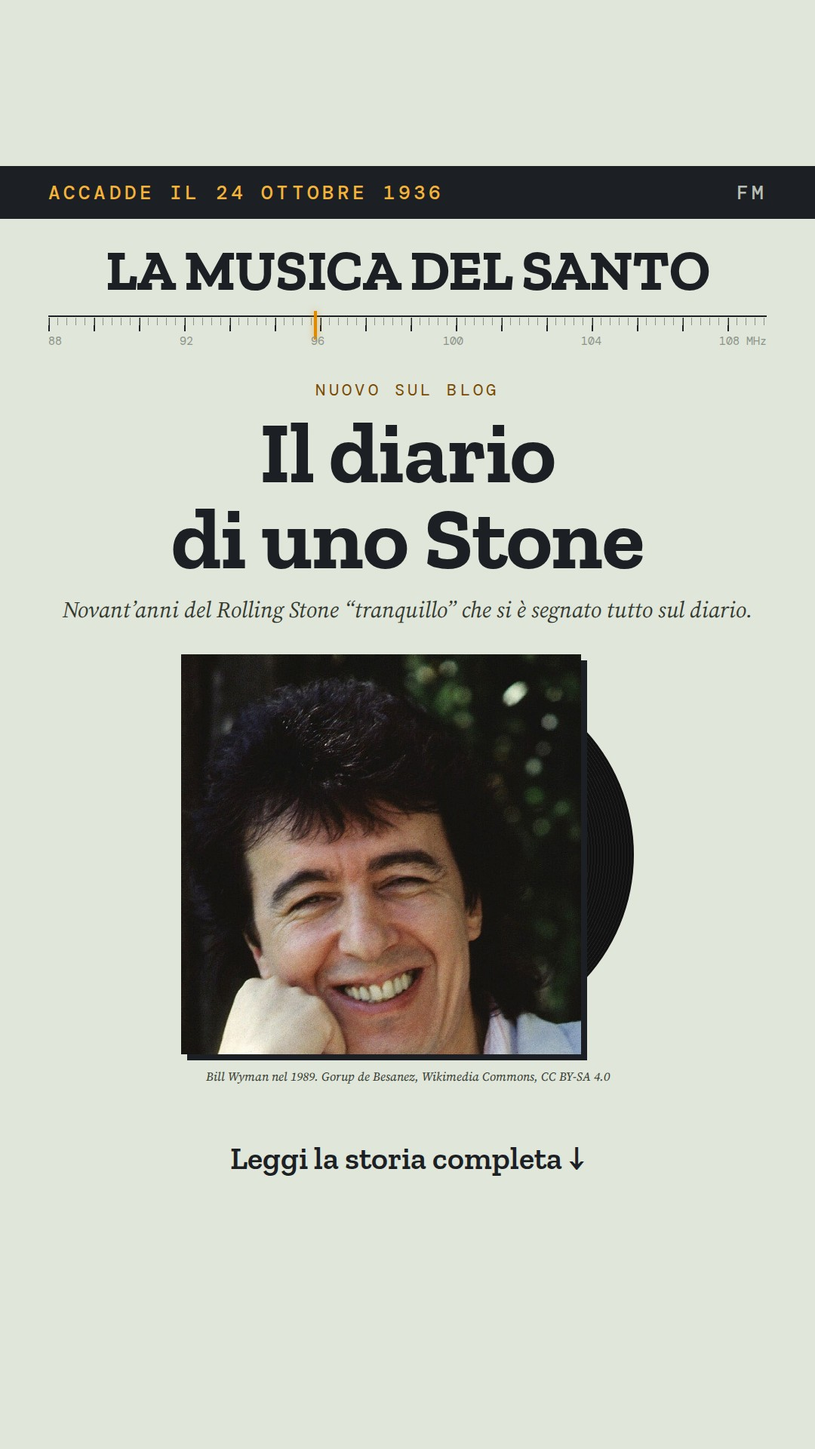
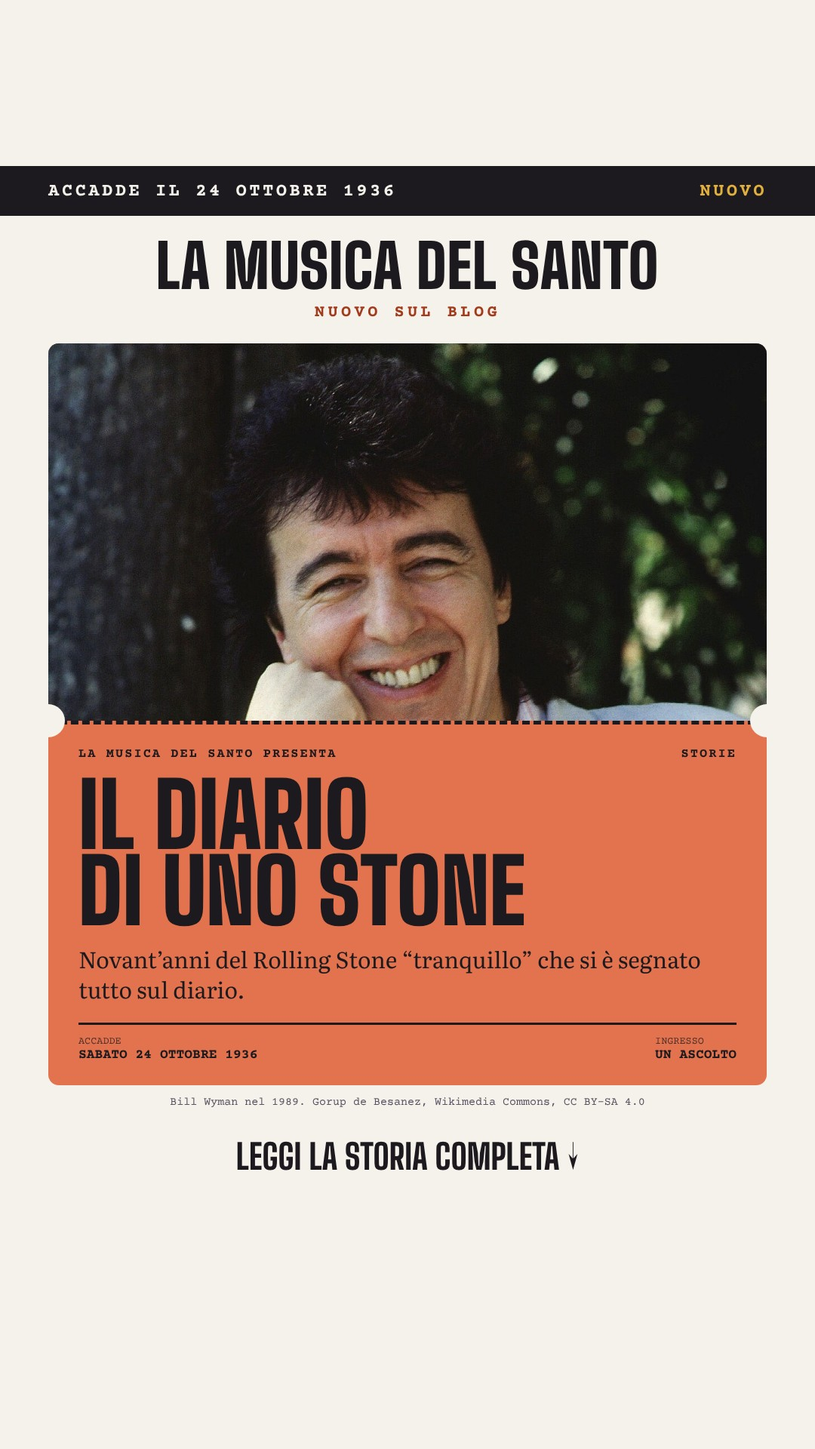
Colori più asciutti e grafiche social nello stile «Biglietti»
- I quattro pastelli diventano colori da carta stampata d'epoca:
  terracotta, salvia, carta da zucchero, senape (tutti oltre 5:1 con
  l'inchiostro); link e hover in rosso mattone al posto del viola
- Grafiche social (Instagram, Facebook, storia) rifatte come biglietto:
  Big Shoulders Display, Literata e Courier Prime, stessi colori del sito;
  nuovo campo facoltativo «sezione» stampato sul biglietto
- Rigenerate le grafiche di Bill Wyman e Back to Black

Claude-Session: https://claude.ai/code/session_01GmcXVyhV4RRvG2N8ARYUjh

diff --git a/src/styles/global.css b/src/styles/global.css
@@ -6,11 +6,12 @@
   --bianco: #FFFFFF;
   --grigio-testo: #5A5463;         /* testo secondario: contrasto 6.9 su carta */
   --tratteggio: #9A93A3;           /* linee tratteggiate e filetti leggeri */
-  --viola: #5B2A86;                /* link e hover */
-  --rosa: #F4B6C2;                 /* i quattro colori dei biglietti */
-  --menta: #A9DDC9;
-  --lilla: #C8B9F2;
-  --giallo: #F3DC8A;
+  --mattone: #A33A1C;              /* link e hover: contrasto 5.9 su carta */
+  /* i quattro colori dei biglietti, da carta stampata d'epoca: tutti oltre 5:1 con l'inchiostro */
+  --terracotta: #E2734E;
+  --salvia: #7FA996;
+  --zucchero: #7F9CC9;
+  --senape: #E0AF3E;
   --max: 1200px;
   --testo: 720px;
   --gutter: clamp(16px, 4vw, 56px);
@@ -26,8 +27,8 @@ html { -webkit-text-size-adjust: 100%; }
 body { margin: 0; background: var(--carta); color: var(--nero); font-family: var(--f-testo); font-size: 18px; line-height: 1.6; text-rendering: optimizeLegibility; }
 img { max-width: 100%; height: auto; display: block; }
 a { color: inherit; text-decoration-thickness: 1px; text-underline-offset: 3px; }
-a:hover { color: var(--viola); }
-:focus-visible { outline: 3px solid var(--viola); outline-offset: 2px; }
+a:hover { color: var(--mattone); }
+:focus-visible { outline: 3px solid var(--mattone); outline-offset: 2px; }
 .wrap { max-width: var(--max); margin: 0 auto; padding: 0 var(--gutter); }
 .salta { position: absolute; left: -9999px; }
 .salta:focus { left: 12px; top: 12px; background: var(--carta); padding: 8px 12px; z-index: 20; }
@@ -43,9 +44,9 @@ a:hover { color: var(--viola); }
 .menu ul { display: flex; flex-wrap: nowrap; justify-content: flex-end; gap: 8px; list-style: none; margin: 0; padding: 0; }
 .menu a { display: inline-flex; align-items: center; min-height: 40px; padding: 8px 11px; border: 1.5px solid var(--nero); font-size: 14px; font-weight: 700; text-transform: uppercase; text-decoration: none; white-space: nowrap; }
 .menu a:hover { background: var(--nero); color: var(--carta); }
-.menu a[aria-current] { background: var(--giallo); border-color: var(--giallo); color: var(--nero); }
+.menu a[aria-current] { background: var(--senape); border-color: var(--senape); color: var(--nero); }
 .menu .cerca-icona { border-color: transparent; padding: 8px; }
-.menu .cerca-icona:hover, .menu .cerca-icona[aria-current] { background: transparent; border-color: transparent; color: var(--viola); }
+.menu .cerca-icona:hover, .menu .cerca-icona[aria-current] { background: transparent; border-color: transparent; color: var(--mattone); }
 
 @media (max-width: 1100px) {
   .testa .wrap { flex-direction: column; align-items: stretch; gap: 14px; padding-top: 16px; padding-bottom: 12px; }
@@ -61,10 +62,10 @@ a:hover { color: var(--viola); }
 
 /* ---------- Elementi comuni ---------- */
 .etichetta { display: inline-block; background: var(--nero); color: var(--carta); font-weight: 700; font-size: 12px; letter-spacing: .12em; text-transform: uppercase; padding: 4px 9px; text-decoration: none; }
-a.etichetta:hover { background: var(--viola); color: var(--bianco); }
+a.etichetta:hover { background: var(--mattone); color: var(--bianco); }
 .rubrica { font-weight: 700; font-size: 12px; letter-spacing: .1em; text-transform: uppercase; text-decoration: none; }
 .titolo { font-family: var(--f-titolo); font-weight: 900; line-height: .9; text-transform: uppercase; margin: 0; text-wrap: balance; }
-.leggi { font-weight: 700; font-size: 15px; color: var(--viola); }
+.leggi { font-weight: 700; font-size: 15px; color: var(--mattone); }
 .meta { font-size: 14px; color: var(--grigio-testo); }
 .retino { position: relative; overflow: hidden; background: var(--tratteggio); }
 .retino img { width: 100%; height: 100%; object-fit: cover; display: block; transition: transform .5s ease; }
@@ -72,7 +73,7 @@ a:hover .retino img { transform: scale(1.03); }
 @media (prefers-reduced-motion: reduce) { .retino img { transition: none; } a:hover .retino img { transform: none; } }
 .didascalia { font-size: 13px; color: var(--grigio-testo); margin-top: 8px; }
 .sezione-titolo { display: flex; align-items: baseline; justify-content: space-between; gap: 16px; margin: 52px 0 20px; font-family: var(--f-titolo); font-weight: 800; font-size: clamp(30px, 3.4vw, 40px); line-height: 1; text-transform: uppercase; }
-.sezione-titolo a { flex: 0 0 auto; font-family: var(--f-testo); font-size: 15px; font-weight: 700; text-transform: none; color: var(--viola); }
+.sezione-titolo a { flex: 0 0 auto; font-family: var(--f-testo); font-size: 15px; font-weight: 700; text-transform: none; color: var(--mattone); }
 .occhiello { margin: 0 0 14px; font-size: 13px; letter-spacing: .16em; text-transform: uppercase; color: var(--grigio-testo); }
 .occhiello a { color: inherit; }
 
@@ -80,7 +81,7 @@ a:hover .retino img { transform: scale(1.03); }
 .barre { display: block; width: 180px; height: 44px; background: repeating-linear-gradient(90deg, var(--nero) 0 3px, transparent 3px 6px, var(--nero) 6px 7px, transparent 7px 11px); }
 
 /* ---------- Il biglietto (primo piano e intestazione articolo) ---------- */
-.biglietto { position: relative; display: grid; background: var(--rosa); color: var(--nero); border-radius: 10px; overflow: hidden; text-decoration: none; }
+.biglietto { position: relative; display: grid; background: var(--terracotta); color: var(--nero); border-radius: 10px; overflow: hidden; text-decoration: none; }
 .biglietto:hover { color: var(--nero); }
 /* mezzelune della perforazione, del colore del fondo */
 .biglietto .buco { position: absolute; width: 36px; height: 36px; border-radius: 50%; background: var(--carta); }
@@ -119,10 +120,10 @@ a:hover .retino img { transform: scale(1.03); }
 
 /* ---------- Schede-biglietto (griglia a tre) ---------- */
 .pezzi { display: grid; grid-template-columns: repeat(3, minmax(0, 1fr)); gap: 28px; }
-.pezzo { display: flex; flex-direction: column; background: var(--menta); border-radius: 8px; overflow: hidden; }
-.pezzi > .pezzo:nth-child(4n+2) { background: var(--lilla); }
-.pezzi > .pezzo:nth-child(4n+3) { background: var(--giallo); }
-.pezzi > .pezzo:nth-child(4n+4) { background: var(--rosa); }
+.pezzo { display: flex; flex-direction: column; background: var(--salvia); border-radius: 8px; overflow: hidden; }
+.pezzi > .pezzo:nth-child(4n+2) { background: var(--zucchero); }
+.pezzi > .pezzo:nth-child(4n+3) { background: var(--senape); }
+.pezzi > .pezzo:nth-child(4n+4) { background: var(--terracotta); }
 .pezzo .retino { aspect-ratio: 16 / 9; }
 .pezzo-corpo { flex: 1; display: flex; flex-direction: column; gap: 10px; padding: 18px 20px 20px; border-top: 3px dashed var(--nero); }
 .pezzo-testa { margin: 0; display: flex; justify-content: space-between; gap: 10px; font-size: 12px; font-weight: 700; letter-spacing: .1em; text-transform: uppercase; }
@@ -214,7 +215,7 @@ a:hover .retino img { transform: scale(1.03); }
 .corpo h2 { font-family: var(--f-sottotitolo); font-weight: 800; font-stretch: 87%; font-size: clamp(28px, 3vw, 34px); line-height: 1.15; margin: 52px 0 14px; padding-top: 14px; border-top: 3px dashed var(--nero); scroll-margin-top: 20px; }
 .corpo h3 { font-family: var(--f-sottotitolo); font-weight: 700; font-stretch: 87%; font-size: clamp(22px, 2.2vw, 25px); line-height: 1.2; margin: 34px 0 8px; }
 .corpo h4 { font-family: var(--f-testo); font-weight: 700; text-transform: uppercase; letter-spacing: .08em; font-size: 15px; margin: 28px 0 6px; }
-.corpo blockquote { margin: 30px 0; background: var(--menta); border-radius: 8px; border-top: 3px dashed var(--nero); padding: 22px 26px; font-size: 20px; line-height: 1.5; }
+.corpo blockquote { margin: 30px 0; background: var(--salvia); border-radius: 8px; border-top: 3px dashed var(--nero); padding: 22px 26px; font-size: 20px; line-height: 1.5; }
 .corpo blockquote p { margin: 0 0 8px; }
 .corpo blockquote p:last-child { margin-bottom: 0; }
 .corpo figure { margin: 32px 0; }
@@ -229,7 +230,7 @@ a:hover .retino img { transform: scale(1.03); }
 .corpo .embed-video iframe { aspect-ratio: 16 / 9; height: auto; }
 .corpo ul, .corpo ol { padding-left: 1.3em; }
 .corpo li { margin: 4px 0; }
-.corpo a { color: var(--viola); }
+.corpo a { color: var(--mattone); }
 .corpo table { font-family: var(--f-testo); width: 100%; border-collapse: collapse; font-size: 16px; }
 .corpo th, .corpo td { border-bottom: 1px dashed var(--tratteggio); padding: 6px 8px; text-align: left; }
 .corpo hr { border: 0; border-top: 2px dashed var(--tratteggio); margin: 40px 0; }
@@ -248,8 +249,8 @@ a:hover .retino img { transform: scale(1.03); }
 
 /* ---------- Ricerca ---------- */
 .cerca { max-width: var(--testo); margin: 10px 0 0; }
-.cerca .pagefind-ui { --pagefind-ui-font: var(--f-testo); --pagefind-ui-primary: var(--nero); --pagefind-ui-text: var(--nero); --pagefind-ui-background: var(--carta); --pagefind-ui-border: var(--nero); --pagefind-ui-tag: var(--giallo); --pagefind-ui-border-radius: 8px; }
-.cerca mark { background: var(--giallo); color: inherit; }
+.cerca .pagefind-ui { --pagefind-ui-font: var(--f-testo); --pagefind-ui-primary: var(--nero); --pagefind-ui-text: var(--nero); --pagefind-ui-background: var(--carta); --pagefind-ui-border: var(--nero); --pagefind-ui-tag: var(--senape); --pagefind-ui-border-radius: 8px; }
+.cerca mark { background: var(--senape); color: inherit; }
 
 /* ---------- Piede ---------- */
 .piede { margin-top: 72px; border-top: 2px dashed var(--tratteggio); padding: 34px 0 40px; }

diff --git a/scripts/social/stile.css b/scripts/social/stile.css
@@ -1,36 +1,32 @@
-/* Grafiche social – tema «Sintonia» (ottobre 2026): stessi colori e caratteri del sito */
-@import url('https://fonts.googleapis.com/css2?family=Zilla+Slab:ital,wght@0,600;0,700;1,600&family=Source+Serif+4:ital,opsz,wght@0,8..60,400;0,8..60,600;1,8..60,400&family=DM+Mono:wght@400;500&display=swap');
-:root{--salvia:#E0E6DA;--salvia-2:#D3DACC;--antracite:#1C1F24;--ambra:#E08A00;--ambra-chiara:#F5B33A;--ambra-scura:#7A4A00;--grigio:#8C948A;--testo-2:#33382F;
---titolo:'Zilla Slab',Rockwell,Georgia,serif;--testo:'Source Serif 4',Georgia,serif;--mono:'DM Mono',ui-monospace,monospace}
+/* Grafiche social – tema «Biglietti» (ottobre 2026): stessi colori e caratteri del sito */
+@import url('https://fonts.googleapis.com/css2?family=Big+Shoulders+Display:wght@800;900&family=Courier+Prime:ital,wght@0,400;0,700;1,400&family=Literata:ital,opsz,wght@0,7..72,400;0,7..72,600;1,7..72,400&display=swap');
+:root{--carta:#F5F2EC;--inchiostro:#1C1A1F;--grigio:#5A5463;--tratteggio:#9A93A3;--mattone:#A33A1C;
+--terracotta:#E2734E;--salvia:#7FA996;--zucchero:#7F9CC9;--senape:#E0AF3E;
+--titolo:'Big Shoulders Display',Impact,sans-serif;--testo:'Literata',Georgia,serif;--mono:'Courier Prime','Courier New',monospace}
 *{box-sizing:border-box;margin:0;padding:0}
-html,body{background:var(--salvia);color:var(--antracite)}
-.tela{position:relative;overflow:hidden;background:var(--salvia)}
-.fascia{background:var(--antracite);color:var(--ambra-chiara);font-family:var(--mono);font-weight:500;text-transform:uppercase;display:flex;justify-content:space-between;align-items:center}
-.fascia .fm{color:var(--salvia);opacity:.8}
-.occhiello-testata{font-family:var(--mono);text-transform:uppercase;text-align:center;color:var(--antracite)}
-.testata{font-family:var(--titolo);font-weight:700;text-align:center;line-height:1;letter-spacing:-.01em}
-.motto{font-family:var(--testo);font-style:italic;text-align:center}
-/* scala delle frequenze con lancetta */
-.scala{position:relative;background:
-  linear-gradient(var(--antracite),var(--antracite)) left 0 top 0/100% 2px no-repeat,
-  repeating-linear-gradient(90deg,var(--grigio) 0 1px,transparent 1px 12px) left 0 top 3px/100% 10px no-repeat,
-  repeating-linear-gradient(90deg,var(--antracite) 0 2px,transparent 2px 60px) left 0 top 3px/100% 18px no-repeat}
-.scala .lancetta{position:absolute;top:-6px;width:4px;background:var(--ambra);box-shadow:0 0 8px rgba(224,138,0,.6)}
-.scala .numeri{position:absolute;left:0;right:0;display:flex;justify-content:space-between;font-family:var(--mono);color:var(--grigio)}
-.riga-data{display:flex;justify-content:space-between;font-family:var(--mono);text-transform:uppercase;border-bottom:2px solid var(--antracite)}
-.titolo{font-family:var(--titolo);font-weight:700;line-height:.98;letter-spacing:-.01em;text-wrap:balance}
-.occhiello{font-family:var(--testo);font-style:italic;line-height:1.3;color:var(--testo-2)}
-/* copertina di LP con il disco che esce dalla busta */
-.lp{position:relative}
-.lp .disco{position:absolute;top:4%;bottom:4%;right:0;aspect-ratio:1;border-radius:50%;
-  background:repeating-radial-gradient(circle,rgba(255,255,255,.06) 0 1px,transparent 1px 4px),radial-gradient(circle,var(--ambra) 0 9%,var(--antracite) 9.5% 10.5%,var(--salvia) 11% 13%,#111 13.5%)}
-.lp .busta{position:relative;z-index:1;aspect-ratio:1;overflow:hidden;box-shadow:8px 8px 0 var(--antracite);background:var(--salvia-2)}
-.lp .busta img{width:100%;height:100%;object-fit:cover;display:block}
-.credito{font-family:var(--testo);font-style:italic;color:var(--testo-2)}
-.testo{font-family:var(--testo);color:var(--testo-2);line-height:1.42}
-.testo p+p{margin-top:.7em}
-.testo p:first-child::first-letter{float:left;font-family:var(--titolo);font-weight:700;color:var(--antracite);font-size:3.3em;line-height:.8;margin:.06em .1em 0 0}
-.interno{display:flex;align-items:stretch;border-top:3px solid var(--antracite)}
-.interno b{background:var(--antracite);color:var(--ambra-chiara);font-family:var(--mono);font-weight:500;text-transform:uppercase;display:flex;align-items:center}
+html,body{background:var(--carta);color:var(--inchiostro)}
+.tela{position:relative;overflow:hidden;background:var(--carta)}
+/* fascia in alto: «Accadde il …» */
+.fascia{background:var(--inchiostro);color:var(--carta);font-family:var(--mono);font-weight:700;text-transform:uppercase;display:flex;justify-content:space-between;align-items:center}
+.fascia .presenta{color:var(--senape)}
+.logo{font-family:var(--titolo);font-weight:900;text-transform:uppercase;line-height:.9;letter-spacing:.01em}
+.motto{font-family:var(--mono);color:var(--grigio)}
+/* il biglietto: colore pieno, perforazione tratteggiata, mezzelune del colore del fondo */
+.biglietto{position:relative;display:grid;background:var(--biglietto,var(--terracotta));border-radius:14px;overflow:hidden}
+.biglietto .foto{position:relative;overflow:hidden;background:var(--tratteggio)}
+.biglietto .foto img{width:100%;height:100%;object-fit:cover;display:block}
+.biglietto .buco{position:absolute;border-radius:50%;background:var(--carta)}
+.testa-biglietto{display:flex;justify-content:space-between;font-family:var(--mono);font-weight:700;text-transform:uppercase;letter-spacing:.12em}
+.titolo{font-family:var(--titolo);font-weight:900;text-transform:uppercase;line-height:.86;text-wrap:balance}
+.occhiello{font-family:var(--testo);line-height:1.35}
+.dati{display:flex;justify-content:space-between;gap:16px;border-top:3px solid var(--inchiostro);font-family:var(--mono);text-transform:uppercase}
+.dati span{display:flex;flex-direction:column}
+.dati small{font-size:.75em;opacity:.75}
+.dati b{font-weight:700}
+.credito{font-family:var(--mono);color:var(--grigio)}
+.testo{font-family:var(--testo);line-height:1.45}
+.interno{display:flex;align-items:stretch;border:2.5px dashed var(--inchiostro);border-radius:8px}
+.interno b{background:var(--inchiostro);color:var(--carta);font-family:var(--mono);font-weight:700;text-transform:uppercase;display:flex;align-items:center}
 .interno span{font-family:var(--testo);display:flex;align-items:center}
-.sito{font-family:var(--mono);color:var(--ambra-scura);text-transform:lowercase}
+.sito{font-family:var(--mono);font-weight:700;color:var(--mattone)}
+.barre{display:block;background:repeating-linear-gradient(90deg,var(--inchiostro) 0 3px,transparent 3px 6px,var(--inchiostro) 6px 7px,transparent 7px 11px)}

diff --git a/scripts/social/ig.html b/scripts/social/ig.html
@@ -1,37 +1,40 @@
 <!doctype html><html lang="it"><head><meta charset="utf-8"><link rel="stylesheet" href="stile.css">
 <style>
 .tela{width:1080px;height:1350px}
-.fascia{height:66px;padding:0 56px;font-size:24px;letter-spacing:.16em}
+.fascia{height:66px;padding:0 56px;font-size:22px;letter-spacing:.14em}
 .dentro{padding:0 56px}
-.occhiello-testata{font-size:15px;letter-spacing:.34em;margin-top:24px}
-.testata{font-size:84px;margin-top:8px;white-space:nowrap}
-.motto{font-size:25px;margin-top:6px}
-.scala{height:46px;margin-top:22px}.scala .lancetta{height:34px;left:var(--lancetta,37%)}.scala .numeri{top:22px;font-size:14px}
-.riga-data{font-size:16px;letter-spacing:.12em;padding:10px 0 12px}
-.titolo{font-size:96px;text-align:center;margin-top:20px}
-.occhiello{font-size:25px;text-align:center;margin:12px 30px 0}
-.corpo{display:grid;grid-template-columns:540px 1fr;gap:36px;margin-top:24px;align-items:start}
-.lp{width:540px;padding-right:62px}
-.lp .busta{width:478px}
-.credito{font-size:14px;margin-top:14px}
-.testo{font-size:21px;padding-top:6px}
-.interno{position:absolute;left:56px;right:56px;bottom:36px;height:56px}
-.interno b{padding:0 20px;font-size:18px;letter-spacing:.16em}
-.interno span{padding:0 18px;font-size:22px}
+.intestazione{display:flex;justify-content:space-between;align-items:flex-end;margin-top:30px}
+.logo{font-size:84px}
+.motto{font-size:18px;margin-top:8px}
+.intestazione .barre{width:170px;height:56px}
+.biglietto{grid-template-columns:400px 1fr;height:720px;margin-top:30px}
+.corpo-biglietto{display:flex;flex-direction:column;justify-content:space-between;padding:34px 40px 30px 44px;border-left:5px dashed var(--inchiostro)}
+.testa-biglietto{font-size:16px}
+.titolo{font-size:110px}
+.occhiello{font-size:26px;margin-top:20px}
+.dati{font-size:17px;padding-top:14px}
+.biglietto .buco{left:382px;width:40px;height:40px}.buco.su{top:-20px}.buco.giu{bottom:-20px}
+.credito{font-size:14px;margin-top:12px}
+.testi{display:grid;grid-template-columns:1fr 1fr;gap:40px;margin-top:26px}
+.testo{font-size:24px}
+.interno{position:absolute;left:56px;right:56px;bottom:40px;height:62px}
+.interno b{padding:0 22px;font-size:18px;letter-spacing:.14em}
+.interno span{padding:0 20px;font-size:22px}
 </style></head><body><div class="tela">
-<div class="fascia"><span>{{fascia}}</span><span class="fm">FM</span></div>
+<div class="fascia"><span>{{fascia}}</span><span class="presenta">lamusicadelsanto.it</span></div>
 <div class="dentro">
-<p class="occhiello-testata">Cronache di bella musica</p>
-<h1 class="testata">LA MUSICA DEL SANTO</h1>
-<p class="motto">Guida semiseria per autostoppisti musicali</p>
-<div class="scala"><i class="lancetta"></i><div class="numeri"><span>88</span><span>92</span><span>96</span><span>100</span><span>104</span><span>108 MHz</span></div></div>
-<div class="riga-data"><span>{{giorno_epoca}}</span><span>Prezzo: un ascolto</span></div>
-<h2 class="titolo">{{titolo}}</h2>
-<p class="occhiello">{{occhiello}}</p>
-<div class="corpo">
- <div><div class="lp"><i class="disco"></i><div class="busta"><img src="{{foto}}" style="object-position:{{fuoco}}"></div></div><p class="credito">{{credito}}</p></div>
- <div class="testo"><p>{{testo1}}</p><p>{{testo2}}</p></div>
-</div>
+ <div class="intestazione"><div><h1 class="logo">La musica del Santo</h1><p class="motto">Biglietteria aperta · guida semiseria per autostoppisti musicali</p></div><i class="barre"></i></div>
+ <div class="biglietto">
+  <div class="foto"><img src="{{foto}}" style="object-position:{{fuoco}}"></div>
+  <div class="corpo-biglietto">
+   <p class="testa-biglietto"><span>La musica del Santo presenta</span><span>{{sezione}}</span></p>
+   <div><h2 class="titolo">{{titolo}}</h2><p class="occhiello">{{occhiello}}</p></div>
+   <p class="dati"><span><small>Accadde</small><b>{{giorno_epoca}}</b></span><span><small>Ingresso</small><b>Un ascolto</b></span></p>
+  </div>
+  <i class="buco su"></i><i class="buco giu"></i>
+ </div>
+ <p class="credito">{{credito}}</p>
+ <div class="testi"><p class="testo">{{testo1}}</p><p class="testo">{{testo2}}</p></div>
 </div>
 <div class="interno"><b>All’interno</b><span>{{interno}}</span></div>
 </div></body></html>

diff --git a/scripts/social/storia.html b/scripts/social/storia.html
@@ -3,26 +3,35 @@
 /* Storia Instagram 1080x1920: in alto e in basso ~220px restano liberi per l'interfaccia di Instagram;
    lo spazio vuoto sotto la freccia (circa 1500-1680 px dall'alto) è il posto dove incollare lo sticker «Link». */
 .tela{width:1080px;height:1920px}
-.fascia{position:absolute;top:220px;left:0;right:0;height:70px;padding:0 64px;font-size:26px;letter-spacing:.16em}
-.dentro{position:absolute;top:320px;left:64px;right:64px}
-.testata{font-size:76px;white-space:nowrap}
-.scala{height:50px;margin-top:22px}.scala .lancetta{height:38px;left:var(--lancetta,37%)}.scala .numeri{top:24px;font-size:15px}
-.nuovo{font-family:var(--mono);text-transform:uppercase;letter-spacing:.2em;font-size:22px;color:var(--ambra-scura);text-align:center;margin-top:34px}
-.titolo{font-size:116px;text-align:center;margin-top:12px}
-.occhiello{font-size:30px;text-align:center;margin-top:18px}
-.lp{width:600px;padding-right:70px;margin:40px auto 0}
-.lp .busta{width:530px}
-.credito{font-size:16px;text-align:center;margin-top:18px}
-.freccia{position:absolute;left:0;right:0;bottom:360px;text-align:center;font-family:var(--titolo);font-size:42px}
+.fascia{position:absolute;top:220px;left:0;right:0;height:66px;padding:0 64px;font-size:24px;letter-spacing:.14em}
+.dentro{position:absolute;top:316px;left:64px;right:64px}
+.logo{font-size:80px;text-align:center}
+.nuovo{font-family:var(--mono);font-weight:700;text-transform:uppercase;letter-spacing:.2em;font-size:22px;color:var(--mattone);text-align:center;margin-top:14px}
+.biglietto{grid-template-columns:1fr;margin-top:28px}
+.biglietto .foto{height:500px}
+.corpo-biglietto{padding:30px 40px 30px;border-top:5px dashed var(--inchiostro)}
+.testa-biglietto{font-size:17px}
+.titolo{font-size:118px;margin-top:20px}
+.occhiello{font-size:30px;margin-top:18px}
+.dati{font-size:18px;padding-top:14px;margin-top:24px}
+.biglietto .buco{top:478px;width:44px;height:44px}.buco.su{left:-22px}.buco.giu{right:-22px}
+.credito{font-size:15px;text-align:center;margin-top:14px}
+.freccia{position:absolute;left:0;right:0;bottom:360px;text-align:center;font-family:var(--titolo);font-weight:800;text-transform:uppercase;font-size:46px}
 </style></head><body><div class="tela">
-<div class="fascia"><span>{{fascia}}</span><span class="fm">FM</span></div>
+<div class="fascia"><span>{{fascia}}</span><span class="presenta">Nuovo</span></div>
 <div class="dentro">
- <h1 class="testata">LA MUSICA DEL SANTO</h1>
- <div class="scala"><i class="lancetta"></i><div class="numeri"><span>88</span><span>92</span><span>96</span><span>100</span><span>104</span><span>108 MHz</span></div></div>
+ <h1 class="logo">La musica del Santo</h1>
  <p class="nuovo">Nuovo sul blog</p>
- <h2 class="titolo">{{titolo}}</h2>
- <p class="occhiello">{{occhiello_storia}}</p>
- <div class="lp"><i class="disco"></i><div class="busta"><img src="{{foto}}" style="object-position:{{fuoco}}"></div></div>
+ <div class="biglietto">
+  <div class="foto"><img src="{{foto}}" style="object-position:{{fuoco}}"></div>
+  <div class="corpo-biglietto">
+   <p class="testa-biglietto"><span>La musica del Santo presenta</span><span>{{sezione}}</span></p>
+   <h2 class="titolo">{{titolo}}</h2>
+   <p class="occhiello">{{occhiello_storia}}</p>
+   <p class="dati"><span><small>Accadde</small><b>{{giorno_epoca}}</b></span><span><small>Ingresso</small><b>Un ascolto</b></span></p>
+  </div>
+  <i class="buco su"></i><i class="buco giu"></i>
+ </div>
  <p class="credito">{{credito_breve}}</p>
 </div>
 <p class="freccia">Leggi la storia completa ↓</p>

diff --git a/scripts/social/fb.html b/scripts/social/fb.html
@@ -1,32 +1,27 @@
 <!doctype html><html lang="it"><head><meta charset="utf-8"><link rel="stylesheet" href="stile.css">
 <style>
 .tela{width:1200px;height:630px}
-.fascia{height:48px;padding:0 44px;font-size:18px;letter-spacing:.16em}
-.griglia{display:grid;grid-template-columns:1fr 460px;gap:40px;padding:0 44px}
-.testata{font-size:52px;text-align:left;margin-top:22px}
-.scala{height:36px;margin-top:14px}.scala .lancetta{height:28px;left:var(--lancetta,37%)}.scala .numeri{top:18px;font-size:12px}
-.riga-data{font-size:13px;letter-spacing:.12em;padding:8px 0 9px}
-.titolo{font-size:66px;margin-top:18px}
-.occhiello{font-size:21px;margin-top:12px}
-.lp{width:460px;padding-right:56px;margin-top:30px}
-.lp .busta{width:404px}
-.credito{font-size:12px;margin-top:12px;text-align:right}
-.interno{position:absolute;left:44px;width:656px;bottom:62px;height:44px}
-.interno b{padding:0 14px;font-size:14px;letter-spacing:.14em}
-.interno span{padding:0 14px;font-size:17px}
-.sito{position:absolute;left:44px;bottom:26px;font-size:17px}
+.fascia{height:46px;padding:0 40px;font-size:16px;letter-spacing:.14em}
+.biglietto{grid-template-columns:380px 1fr;position:absolute;left:40px;right:40px;top:76px;height:470px}
+.corpo-biglietto{display:flex;flex-direction:column;justify-content:space-between;padding:28px 36px 24px 40px;border-left:5px dashed var(--inchiostro)}
+.testa-biglietto{font-size:14px}
+.titolo{font-size:76px}
+.occhiello{font-size:20px;margin-top:12px}
+.dati{font-size:14px;padding-top:10px}
+.biglietto .buco{left:362px;width:36px;height:36px}.buco.su{top:-18px}.buco.giu{bottom:-18px}
+.piede{position:absolute;left:40px;right:40px;bottom:22px;display:flex;justify-content:space-between;align-items:center}
+.piede .logo{font-size:34px}
+.credito{font-size:12px;max-width:520px;text-align:right}
 </style></head><body><div class="tela">
-<div class="fascia"><span>{{fascia}}</span><span class="fm">FM · La musica del Santo</span></div>
-<div class="griglia">
- <div>
-  <h1 class="testata">LA MUSICA DEL SANTO</h1>
-  <div class="scala"><i class="lancetta"></i><div class="numeri"><span>88</span><span>92</span><span>96</span><span>100</span><span>104</span><span>108 MHz</span></div></div>
-  <div class="riga-data"><span>{{giorno_epoca}}</span><span>Prezzo: un ascolto</span></div>
-  <h2 class="titolo">{{titolo}}</h2>
-  <p class="occhiello">{{occhiello}}</p>
+<div class="fascia"><span>{{fascia}}</span><span class="presenta">lamusicadelsanto.it</span></div>
+<div class="biglietto">
+ <div class="foto"><img src="{{foto}}" style="object-position:{{fuoco}}"></div>
+ <div class="corpo-biglietto">
+  <p class="testa-biglietto"><span>La musica del Santo presenta</span><span>{{sezione}}</span></p>
+  <div><h2 class="titolo">{{titolo}}</h2><p class="occhiello">{{occhiello}}</p></div>
+  <p class="dati"><span><small>Accadde</small><b>{{giorno_epoca}}</b></span><span><small>Ingresso</small><b>Un ascolto</b></span></p>
  </div>
- <div><div class="lp"><i class="disco"></i><div class="busta"><img src="{{foto}}" style="object-position:{{fuoco}}"></div></div><p class="credito">{{credito_breve}}</p></div>
+ <i class="buco su"></i><i class="buco giu"></i>
 </div>
-<div class="interno"><b>All’interno</b><span>{{interno}}</span></div>
-<p class="sito">lamusicadelsanto.it</p>
+<div class="piede"><span class="logo">La musica del Santo</span><span class="credito">{{credito_breve}}</span></div>
 </div></body></html>

diff --git a/scripts/social/LEGGIMI.md b/scripts/social/LEGGIMI.md
@@ -1,13 +1,15 @@
-# Grafiche social (tema «Sintonia»)
+# Grafiche social (tema «Biglietti»)
 
-Stessi colori e caratteri del sito: fondo salvia, antracite, ambra; Zilla Slab, Source Serif 4, DM Mono.
-Struttura: fascia «Accadde il …», testata, scala FM con lancetta, data d'epoca e «Prezzo: un ascolto»,
-titolo, occhiello, foto come copertina di LP con il disco che esce, due brevi testi, barra «All'interno».
+Stessi colori e caratteri del sito: fondo carta chiara, inchiostro scuro, biglietto terracotta;
+Big Shoulders Display (titoli), Literata (testi), Courier Prime (fascia, date, dettagli).
+Struttura: fascia «Accadde il …», nome del sito, biglietto con foto, perforazione, sezione, titolo,
+occhiello e data d'epoca, credito della foto, due brevi testi, barra «All'interno».
 
 1. Copia `dati/bill-wyman-90-anni.json` in `dati/<slug>.json` e cambia i testi
    (titolo con `<br>` per andare a capo; `fuoco` = punto della foto da tenere al centro, es. "50% 30%").
    La fascia in alto è «Accadde il <data_evento>»; per l'attualità aggiungi il campo `fascia`
    (es. "In uscita il 30 ottobre 2026", "Dal vivo il 12 novembre 2026").
+   Il campo `sezione` è la sezione stampata sul biglietto (di default «Storie», es. "Album").
 2. `NODE_PATH=$(npm root -g) node scripts/social/genera.cjs scripts/social/dati/<slug>.json`
    (serve Playwright; se manca: `npm i -g playwright`).
 3. Escono `public/social/<slug>-ig.jpg` (1080×1350, JPEG per Instagram), `public/social/<slug>-fb.png` (1200×630)

diff --git a/README.md b/README.md
@@ -6,7 +6,7 @@ Sito statico di lamusicadelsanto.it, migrato da WordPress (32 articoli, 2 pagine
 - `src/content/articoli/*.md` — un file per articolo (frontmatter + testo Markdown)
 - `src/content/pagine/*.md` — pagine fisse (Chi sono, Privacy)
 - `public/wp-content/uploads/` — immagini, stesso percorso di WordPress (i vecchi link continuano a funzionare)
-- `src/styles/global.css` — tema "Biglietti" chiaro: ogni articolo è un biglietto (titoli Big Shoulders Display, testo Literata, titoletti Archivo, dettagli Courier Prime, colori pastello)
+- `src/styles/global.css` — tema "Biglietti" chiaro: ogni articolo è un biglietto (titoli Big Shoulders Display, testo Literata, titoletti Archivo, dettagli Courier Prime, colori da carta stampata d’epoca: terracotta, salvia, carta da zucchero, senape)
 - `keystatic.config.ts` — editor visuale
 - `_wp/migrate.py` — script di migrazione (riutilizzabile)
 
